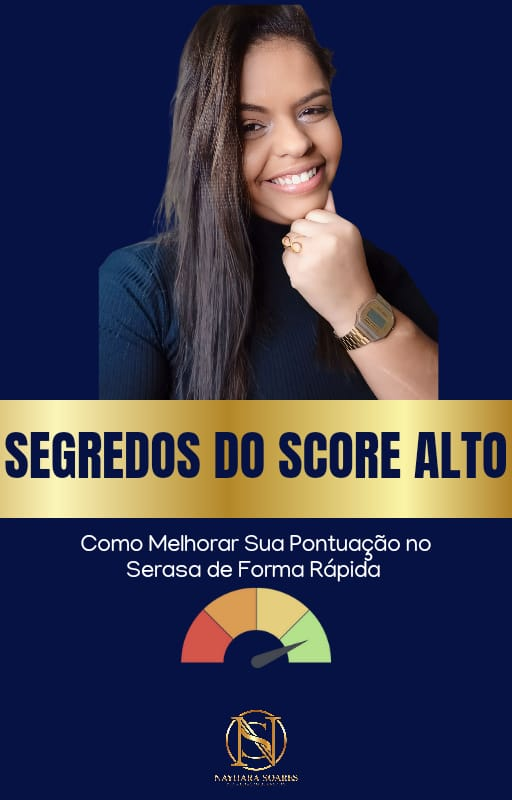
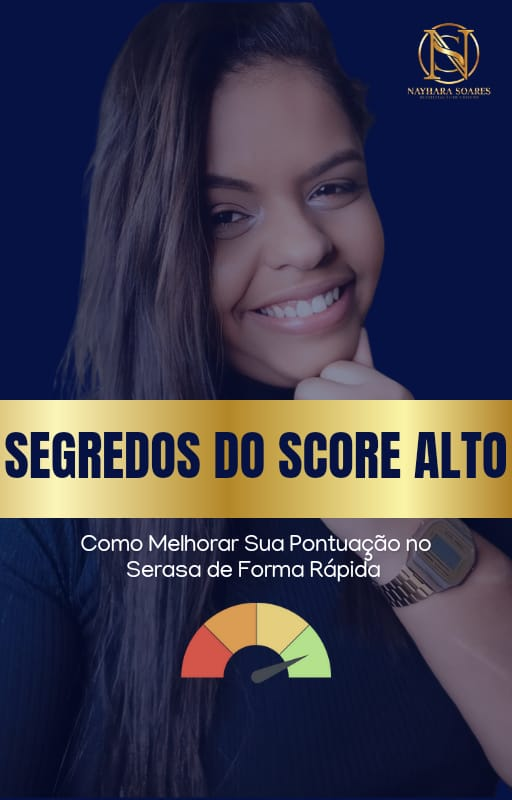
feat: improve elements in sugest from client

diff --git a/src/app/components/otherSpecialist/index.tsx b/src/app/components/otherSpecialist/index.tsx
@@ -14,12 +14,12 @@ import "./other.scss"
 
 const OtherSpecialist: React.FC = () => {
   const specialists = [
-    { name: 'Renato', position: 'Consultor(a)', image: renato },
-    { name: 'Luana', position: 'Brand Manager & Web Designer', image: luana },
-    { name: 'Fernanda', position: 'Consultor(a)', image: fernanda },
-    { name: 'Rosemary', position: 'Consultor(a)', image: rosemary },
-    { name: 'Roney', position: 'Consultor(a)', image: roney },
-    { name: 'Alessandra', position: 'Consultor(a)', image: alessandra },
+    { name: 'Renato Junio', city:'Mar de Espanha e Senador Cortes/MG' ,  position: 'Consultor(a)', image: renato },
+    { name: 'Luana Melo', city: 'Mar de Espanha-MG', position: 'Brand Manager & Web Designer', image: luana },
+    { name: 'Fernanda Magalhães', city: 'Mar de Espanha e Santana do Deserto-MG', position: 'Consultor(a)', image: fernanda },
+    { name: 'Rosemary Carvalho', city: 'Curvelo/MG', position: 'Consultor(a)', image: rosemary },
+    { name: 'Roney Montan', city: 'Governador Valadares/MG', position: 'Consultor(a)', image: roney },
+    { name: 'Alessandra Wildberger', city: 'Mar de Espanha e Juiz de Fora/MG', position: 'Consultor(a)', image: alessandra },
   ];
 
   return (
@@ -50,6 +50,7 @@ const OtherSpecialist: React.FC = () => {
               <Image src={specialist.image} alt={specialist.name} />
               <div className="caption">
                 <h4>{specialist.name}</h4>
+                <p>{specialist.city}</p>
                 <p>{specialist.position}</p>
               </div>
             </div>

diff --git a/src/app/components/header/index.tsx b/src/app/components/header/index.tsx
@@ -7,10 +7,10 @@ import { MenuProps } from "@/app/Types";
 import { redirect } from "next/navigation";
 
 interface MenuElements {
-    menuItens: MenuProps[]
+  menuItens: MenuProps[];
 }
 
-const Header = ({ menuItens }:MenuElements) => {
+const Header = ({ menuItens }: MenuElements) => {
   const [isMenuOpen, setIsMenuOpen] = useState(false);
 
   const toggleMenu = () => {
@@ -28,9 +28,14 @@ const Header = ({ menuItens }:MenuElements) => {
             <Link href={item.link}>{item.name}</Link>
           </li>
         ))}
-        <div className="clientArea" onClick={()=> redirect("/analitic")}>
-          <p>Limpe seu Nome</p>
-        </div>
+        <div
+            className="clientArea"
+            onClick={() =>
+              window.open(window.location.origin + "/analitic", "_blank")
+            }
+          >
+            <p>Limpe seu Nome</p>
+          </div>
       </ul>
       <div
         className={`hamburgerMenu ${isMenuOpen ? "show" : ""}`}
@@ -47,7 +52,12 @@ const Header = ({ menuItens }:MenuElements) => {
               <Link href={item.link}>{item.name}</Link>
             </li>
           ))}
-          <div className="clientArea" onClick={()=> redirect("/analitic")}>
+          <div
+            className="clientArea"
+            onClick={() =>
+              window.open(window.location.origin + "/analitic", "_blank")
+            }
+          >
             <p>Limpe seu Nome</p>
           </div>
         </ul>

diff --git a/src/app/components/banner/index.tsx b/src/app/components/banner/index.tsx
@@ -1,41 +1,14 @@
-import React, { useEffect, useRef } from "react";
+import React, { useRef } from "react";
 import Button from "../button";
 import "./banner.scss";
 
 const Banner: React.FC = () => {
-  const bannerRef = useRef<HTMLDivElement | null>(null);  // Referência para o banner
-
-  useEffect(() => {
-    const lazyLoadBackground = (entry: IntersectionObserverEntry) => {
-      if (entry.isIntersecting) {
-        if (bannerRef.current) {
-          bannerRef.current.style.setProperty(
-            '--background-image', `url(${bannerRef.current.getAttribute('data-bg')})`
-          );
-        }
-      }
-    };
-
-    const observer = new IntersectionObserver((entries) => {
-      entries.forEach(lazyLoadBackground);
-    });
-
-    if (bannerRef.current) {
-      observer.observe(bannerRef.current); 
-    }
-
-    return () => {
-      if (bannerRef.current) {
-        observer.unobserve(bannerRef.current);
-      }
-    };
-  }, []);
+  const bannerRef = useRef<HTMLDivElement | null>(null);  
 
   return (
     <div
       ref={bannerRef}
       className="contentBanner"
-      data-bg="/back.jpg"
     >
       <div className="responsiveBox">
         <div className="contentBox">

diff --git a/src/app/social/page.tsx b/src/app/social/page.tsx
@@ -43,7 +43,7 @@ const Social: React.FC = () => {
       <Image src={logo} alt="Logo Nayhara Soares" width={200} className="logo" />
 
       <header className="header">
-        <h1 className="company-name">Nayhara Soares</h1>
+        <h1 className="company-name">Nayhara Soares Reabilitação de crédito </h1>
         <p className="tagline">Ao utilizar nossos serviços, você também está apoiando causas sociais.</p>
       </header>
 
@@ -55,14 +55,6 @@ const Social: React.FC = () => {
           <li>Doação de recursos para ONGs locais</li>
           <li>Apoio a iniciativas artísticas e culturais</li>
         </ul>
-        <p>
-          A Nayhara Soares tem como missão promover ações e iniciativas que contribuam para o
-          desenvolvimento social, fortalecendo comunidades e impactando positivamente o ambiente.
-        </p>
-        <p>
-          Atuamos em diversas áreas, como educação, saúde e inclusão social, com o compromisso
-          de gerar resultados duradouros e efetivos.
-        </p>
       </section>
 
       <div className="containerGallery">

diff --git a/src/app/components/otherSpecialist/other.scss b/src/app/components/otherSpecialist/other.scss
@@ -29,8 +29,8 @@
         justify-content: space-between;
         align-items: center;
         text-align: center;
-        max-width: 140px;
-        height: 210px;
+        max-width: 200px;
+        height: 300px;
         margin: 5px;
         
         img {
@@ -42,6 +42,10 @@
 
         .caption {
           margin-top: 10px;
+          display: flex;
+          height: 70%;
+          flex-direction: column;
+          justify-content: space-evenly;
           
           h4 {
             font-size: 14px;
@@ -52,6 +56,7 @@
           p {
             font-size: 12px;
             color: #777;
+            text-align: center;
           }
         }
       }

diff --git a/src/app/components/specialists/specialist.scss b/src/app/components/specialists/specialist.scss
@@ -28,16 +28,16 @@
 }
 .specialist {
     border-radius: 20px;
-    margin: 15px;
+    margin: 5px;
     object-fit: cover;
     border-radius: 50%;
     width: 140px;
     height: 140px;
     background-color: #D4AF37;
     @media (max-width:768px) {
-      min-width: 140px;
-      min-height: 140px;
-      margin: 10%;
+      min-width: 200px;
+      min-height: 200px;
+      margin: 3px;
     }
     
   }
@@ -133,6 +133,9 @@
       width: 80%;
       height: 3px;
       background-color: #D4AF37 ;
+      @media (max-width: 768px) {
+        display: none;
+      }
     }
   }
   .container{

diff --git a/src/app/components/banner/banner.scss b/src/app/components/banner/banner.scss
@@ -4,26 +4,12 @@
   overflow: hidden;
 }
 .contentBanner {
-  background-color: rgba(0, 6, 27, 0.9); 
+  background-color:#00061B; 
   position: relative;
   z-index: 1; 
 }
 
-.contentBanner::before {
-  content: "";
-  position: absolute;
-  top: 0;
-  left: 0;
-  right: 0;
-  bottom: 0;
-  background-image: url('/back.jpg');
-  opacity: 0.3;
-  background-size: cover;
-  background-position: center;
-  background-attachment: fixed;
-  filter: blur(7px);
-  z-index: -1; 
-}
+
 
 
   

diff --git a/src/app/page.module.css b/src/app/page.module.css
@@ -23,7 +23,6 @@
   left: 0;
   right: 0;
   bottom: 0;
-  background-image: url('/back.jpg');
   background-size: cover;
   background-position: center;
   background-attachment: fixed;
@@ -215,7 +214,6 @@
   left: 0;
   right: 0;
   bottom: 0;
-  background-image: url('/back.jpg');
   background-size: cover;
   background-position: center;
   background-attachment: fixed;

diff --git a/src/app/components/analisesComponent/index.tsx b/src/app/components/analisesComponent/index.tsx
@@ -17,7 +17,7 @@ export default function Analises() {
         </div>
         <div className="contentText">
           <h2>
-          Faça uma <span className="focus">Análise</span> Conosco!
+          Limpe seu <span className="focus">Nome</span> Conosco!
           </h2>
           <p>
             Nós da equipe Nayhara Soares, estamos dispostos a renovar suas

diff --git a/src/app/components/specialists/index.tsx b/src/app/components/specialists/index.tsx
@@ -71,7 +71,7 @@ export default function Specialist() {
             </div>
             <p>
               <strong>Sócio e Co-fundador:</strong> Alisson Dias
-              <br /> (Mar de Espanha, MG)
+              <br /> (Três Rios - RJ)
             </p>
           </div>
         </div>

diff --git a/src/app/components/about/index.tsx b/src/app/components/about/index.tsx
@@ -38,7 +38,7 @@ export default function About() {
 
         </div>
         {isClient && (
-          <div>
+          <div className="imageAboutContainer">
             <Image className="logoAbout" src={logo} alt="Logo Image" width={300} />
           </div>
         )}

diff --git a/src/app/social/social.scss b/src/app/social/social.scss
@@ -67,7 +67,7 @@ $font-family: "Roboto", sans-serif;
   max-width: 800px;
   margin: 0 auto;
   text-align: left;
-  background-color: #fff;
+  background-color: #dadada;
   padding: 20px;
   border-radius: 10px;
   box-shadow: 0 2px 5px rgba(0, 0, 0, 0.1);
